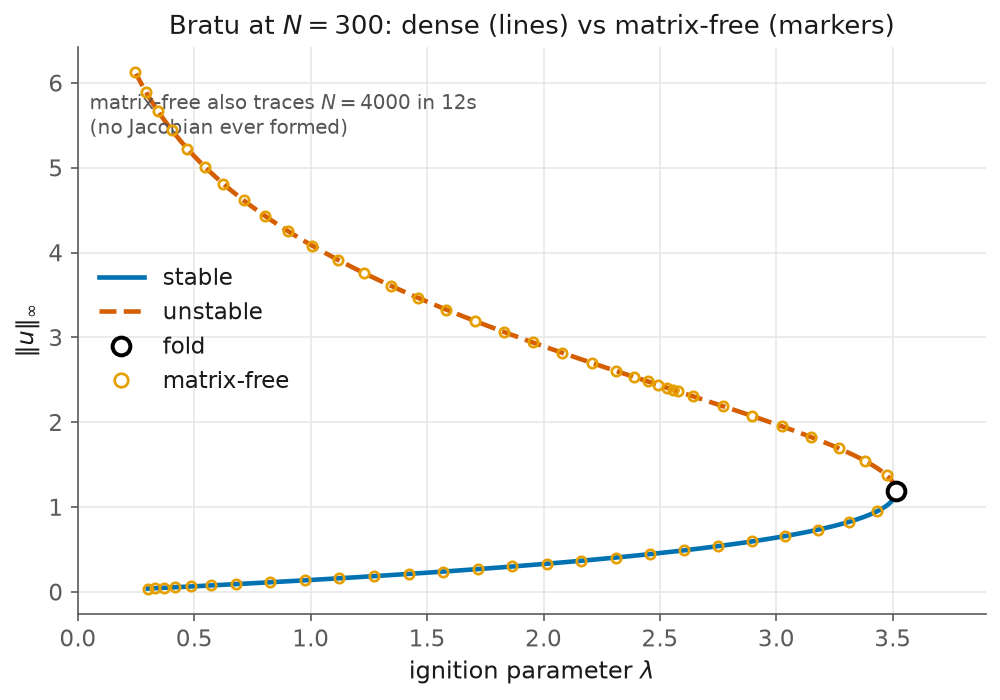
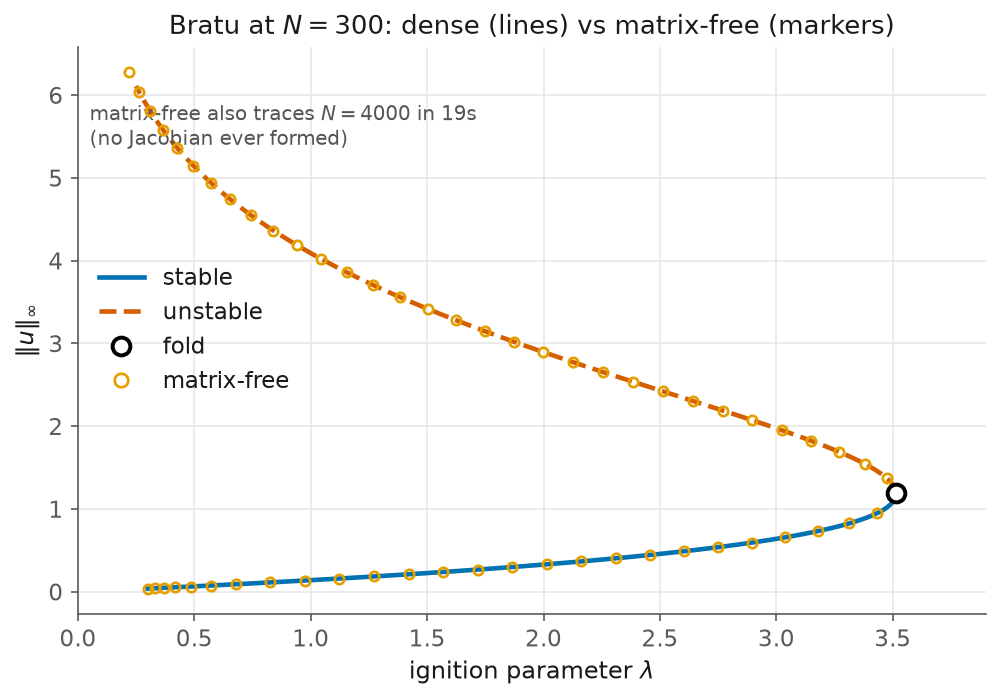
matrixfree: state the GMRES forcing in the preconditioned norm. jax's gmres tests the preconditioned residual against tol*|b| of the raw right-hand side, so a well-normalised Minv (|Minv b| << |b|) 'converged' at iterate 0 and returned a zero step; the initial corrector then stalled and mf_arclength

diff --git a/tests/test_kellax.py b/tests/test_kellax.py
@@ -210,6 +210,57 @@ def test_mf_matches_dense_bratu():
     assert abs(lam_d - lam_m) < 1e-6, (lam_d, lam_m)   # same discrete fold, two engines
 
 
+def _bratu_2d(N):
+    """Discretised Delta u + lambda e^u on the N x N unit-square grid, with the
+    exactly normalised inverse-Laplacian (2-D DST) preconditioner. The exact
+    normalisation is the point: it is the case that used to silence gmres."""
+    h = 1.0 / (N + 1)
+    k = onp.arange(1, N + 1)
+    eig1 = (2.0 * onp.cos(k * onp.pi / (N + 1)) - 2.0) / h ** 2
+    lam2 = np.asarray(eig1[:, None] + eig1[None, :])
+
+    def R(u, lam):
+        U = u.reshape(N, N)
+        up = np.concatenate([U[1:], np.zeros((1, N))], 0)
+        dn = np.concatenate([np.zeros((1, N)), U[:-1]], 0)
+        lt = np.concatenate([U[:, 1:], np.zeros((N, 1))], 1)
+        rt = np.concatenate([np.zeros((N, 1)), U[:, :-1]], 1)
+        return ((up + dn + lt + rt - 4.0 * U) / h ** 2 + lam * np.exp(U)).reshape(-1)
+
+    def dst1(v, axis):
+        n = v.shape[axis]
+        zeros = np.zeros(v.shape[:axis] + (1,) + v.shape[axis + 1:])
+        ext = np.concatenate([zeros, v, zeros, -np.flip(v, axis)], axis)
+        return -np.take(np.fft.rfft(ext, axis = axis).imag, np.arange(1, n + 1), axis)
+
+    dst2d = lambda V: dst1(dst1(V, 0), 1)
+    precond = lambda v: (dst2d(dst2d(v.reshape(N, N)) / lam2)
+                         / (2.0 * (N + 1)) ** 2).reshape(-1)
+    return R, precond
+
+
+def test_mf_precond_2d_bratu():
+    """Preconditioned matrix-free on a 2-D field. An exactly normalised
+    inverse-Laplacian shrinks |Minv b| far below |b|, and gmres's stopping
+    rule (preconditioned residual against tol * |b|) then returned a zero
+    step at the seed, so the initial corrector stalled and the trace never
+    started. The engine now states its forcing in the preconditioned norm;
+    the trace must leave the seed, pass the fold, and agree with dense."""
+    N = 16
+    R, precond = _bratu_2d(N)
+    kw = dict(p0 = 0.3, ds = 0.1, ds_max = 0.6, n_steps = 100,
+              p_min = 0.25, p_max = 12.0, direction = 1.0)
+    bd = arclength_continuation(R, np.zeros(N * N), **kw)
+    bm = mf_arclength_continuation(R, np.zeros(N * N), precond = precond, **kw)
+    assert bd.turning_points and bm.turning_points
+    _, lam_d, _, rd = refine_fold(R, np.array(bd.x[bd.turning_points[0]]),
+                                  float(bd.p[bd.turning_points[0]]))
+    _, lam_m, _, rm = refine_fold(R, np.array(bm.x[bm.turning_points[0]]),
+                                  float(bm.p[bm.turning_points[0]]))
+    assert float(rd) < 1e-8 and float(rm) < 1e-8, (rd, rm)
+    assert abs(lam_d - lam_m) < 1e-6, (lam_d, lam_m)   # same discrete fold
+
+
 if __name__ == "__main__":
     for name, fn in sorted(globals().items()):
         if name.startswith("test_") and callable(fn):

diff --git a/kellax/matrixfree.py b/kellax/matrixfree.py
@@ -70,8 +70,16 @@ def _make_step(residual, precond, restart, maxiter, eta_min, eta_max, ls_max,
         m0 = np.sqrt(np.vdot(R, R) + ph * ph)
         res0 = np.maximum(np.max(np.abs(R)), np.abs(ph))
         eta = np.clip(np.sqrt(res0), eta_min, eta_max)    # Eisenstat-Walker
-        d, _ = gmres(jvp, (-R, -ph), x0 = (np.zeros_like(x), np.zeros_like(p)),
-                     M = Mb, tol = eta, atol = 0.0, restart = restart,
+        # gmres tests the PREconditioned residual against tol*|b| of the raw
+        # rhs, so a good Minv (|Minv b| << |b|) "converges" at iterate 0 and
+        # returns a zero step. State the forcing in the preconditioned norm:
+        # tol = 0 and atol = eta * |Minv b|, which reduces to the old
+        # tol = eta when precond is None and is invariant to scaling Minv.
+        b = (-R, -ph)
+        bM = b if Mb is None else Mb(b)
+        b_nrm = np.sqrt(np.vdot(bM[0], bM[0]) + bM[1] * bM[1])
+        d, _ = gmres(jvp, b, x0 = (np.zeros_like(x), np.zeros_like(p)),
+                     M = Mb, tol = 0.0, atol = eta * b_nrm, restart = restart,
                      maxiter = maxiter, solve_method = "batched")
         dx = np.where(np.isfinite(d[0]), d[0], 0.0)
         dp = np.where(np.isfinite(d[1]), d[1], 0.0)
@@ -122,9 +130,12 @@ def _make_tangent(residual, precond, restart, maxiter, w):
             vx, vp = u
             return (jvp((vx, vp)), w * np.vdot(tx0, vx) + tp0 * vp)
 
-        sol, _ = gmres(op, (np.zeros_like(x), np.ones_like(p)),
+        b = (np.zeros_like(x), np.ones_like(p))
+        bM = b if Mb is None else Mb(b)               # same preconditioned-norm
+        b_nrm = np.sqrt(np.vdot(bM[0], bM[0]) + bM[1] * bM[1])   # forcing as in
+        sol, _ = gmres(op, b,                                     # _make_step
                        x0 = (np.zeros_like(x), np.zeros_like(p)), M = Mb,
-                       tol = 1e-8, atol = 0.0, restart = restart,
+                       tol = 0.0, atol = 1e-8 * b_nrm, restart = restart,
                        maxiter = maxiter, solve_method = "batched")
         tx, tp = sol
         nrm = np.sqrt(w * np.vdot(tx, tx) + tp * tp)